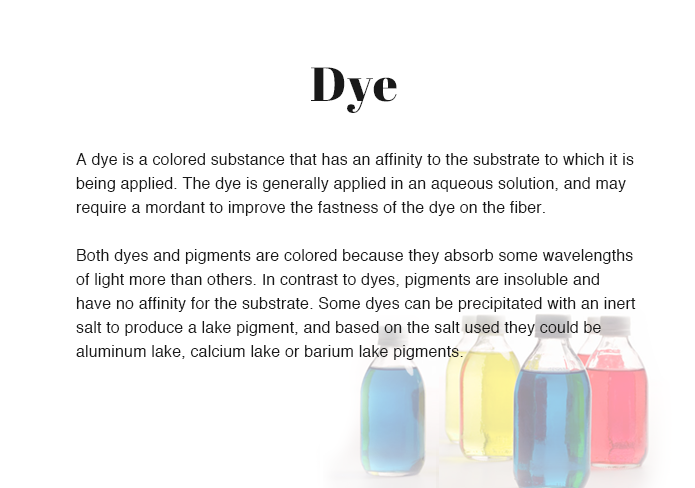
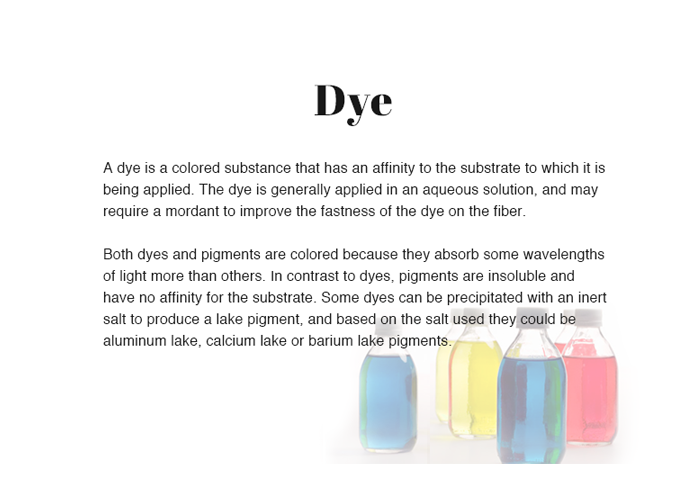
change pop box img and fix position

Changed region(s): [[0.0906, 0.4918, 0.9367, 1.0], [0.0906, 0.3074, 0.9065, 0.4611], [0.4532, 0.123, 0.5741, 0.2766]]

diff --git a/ScrapWork/src/buttonMenu.cpp b/ScrapWork/src/buttonMenu.cpp
@@ -80,7 +80,7 @@ void buttonMenu::setup(){
     
     closeIconTexture = gl::Texture::create(loadImage(loadAsset("close.png")));
     closeIcon = po::scene::Image::create(closeIconTexture);
-    closeIcon ->setPosition(ci::vec2 (950.f, 235.f));
+    closeIcon ->setPosition(ci::vec2 (910.f, 300.f));
     closeIcon->setDrawBounds(false);
     closeIcon->setAlpha(0.f);
 //    addChild(closeIcon);
@@ -226,7 +226,7 @@ void buttonMenu::mouseDown( po::scene::MouseEvent &event ) {
         case po::scene::MouseEvent::DOWN_INSIDE:
             
             if (boxIsActive == true){
-                if (event.getWindowPos().x >= 950.f && event.getWindowPos().x <= 950.f+18 && event.getWindowPos().y >= 235.f  && event.getWindowPos().y <= 235.f + 18){
+                if (event.getWindowPos().x >= 910.f && event.getWindowPos().x <= 910.f+18 && event.getWindowPos().y >= 300.f  && event.getWindowPos().y <= 300.f + 18){
                     cout<<"box is closed"<<endl;
                     btn1->setToNormal();
                     btn2->setToNormal();

diff --git a/ScrapWork/src/popBox.cpp b/ScrapWork/src/popBox.cpp
@@ -13,7 +13,7 @@ void popBox::setup(gl::TextureRef popBoxImg){
     mPopBoxTexture = popBoxImg;
     mPopBox = po::scene::Image::create(mPopBoxTexture);
     mPopBox->setAlignment(po::scene::Alignment::CENTER_CENTER);
-    mPopBox->setPosition(getWindowWidth()/2, getWindowHeight()/2 + 35.f);
+    mPopBox->setPosition(getWindowWidth()/2, getWindowHeight()/2 + 75.f);
     mPopBox->setDrawBounds(false) ;
     addChild(mPopBox);
     

diff --git a/ScrapWork/src/ScrapWorkApp.cpp b/ScrapWork/src/ScrapWorkApp.cpp
@@ -143,7 +143,7 @@ void ScrapWorkApp::generateNewPatch(int number)
     activeContainer->addChild(newPatch);
     
     newPatch->getIsInCavasSignal().connect(std::bind(&ScrapWorkApp::showOnCanvas, this,std::placeholders::_1));
-
+    
 }
 
 void ScrapWorkApp::showOnCanvas(bool state)

diff --git a/ScrapWork/src/Pile.cpp b/ScrapWork/src/Pile.cpp
@@ -16,6 +16,8 @@ Pile::Pile()
 void Pile::reset()
 {
     setup();
+    
+    
 }
 
 void Pile::setup(){
